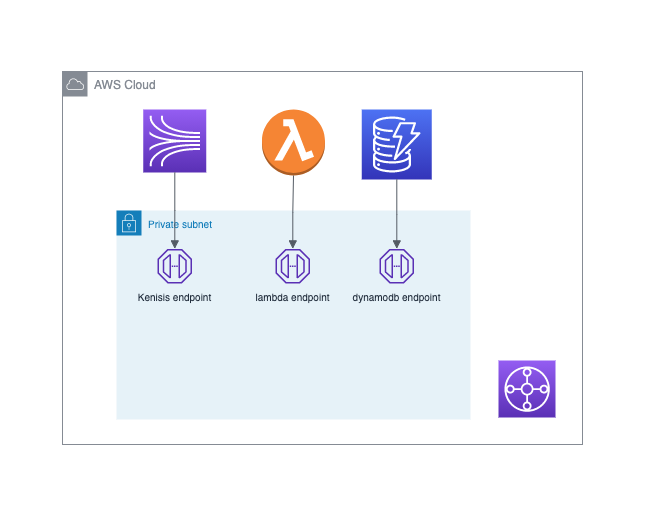
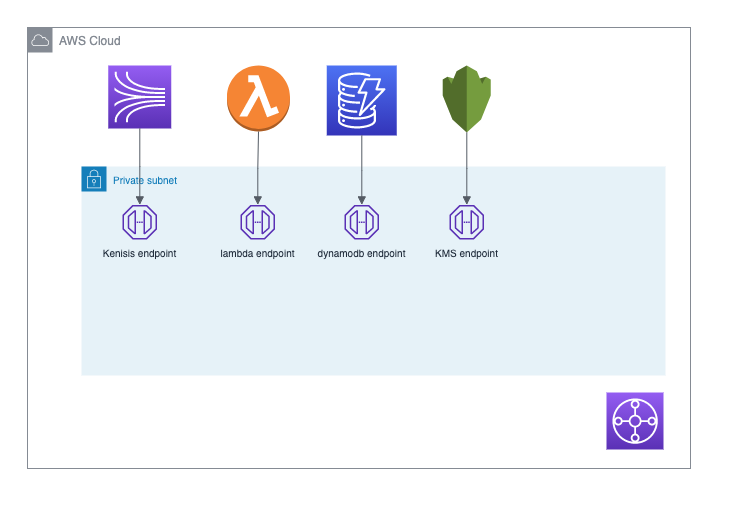
kms encryption and endpoint

Changed region(s): [[0.0906, 0.1236, 0.9063, 0.8649], [0.0302, 0.0309, 0.1813, 0.1236]]

diff --git a/README.md b/README.md
@@ -1,10 +1,12 @@
 ## serverless-datapipeline-in-privatesubnet
 
-This is working example is used to demostrate to enterprise customer who has very strict cyber security control requirement in place, and they requires lambda to run inside VPC without internet access but also need to access other serverless service like DynamoDB and Kinesis via private endpoint.
+This is working example is used to demostrate to enterprise customer who has very strict cyber security control requirement in place, and they requires lambda to run inside VPC without internet access but also need to access other serverless service like DynamoDB and Kinesis as well as KMS via private endpoint.
 
 By deploying the single cloudformation file, you will get a working example data pipeline to demostrate, 
 
 publisher lambda --> kinesis --> consumer lambda --> dynamodb
+
+Publisher lambda will also access KMS service via kms endpoint to encrypt the payload; consumer lambda being triggerred by Kinesis message and will access the kms endpoint to decrypt the payload as well.
 
 ![serverless-privatevpc-datapipeline-demo](images/Archi.png)
 
